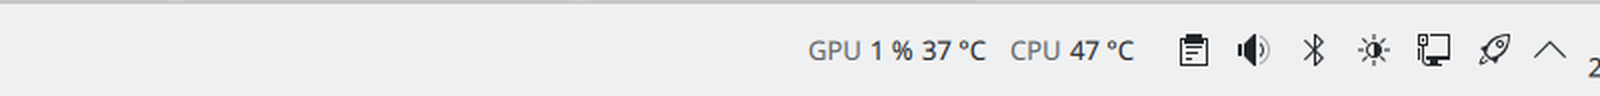
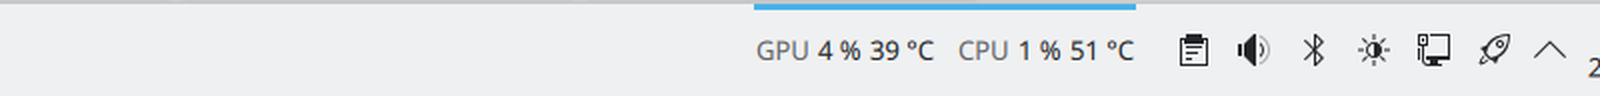
impl: show CPU utilisation next to its temperature

Changed region(s): [[0.4688, 0.4062, 0.6875, 0.6562], [0.4688, 0.0312, 0.7188, 0.125]]

diff --git a/package/contents/ui/main.qml b/package/contents/ui/main.qml
@@ -32,6 +32,7 @@ PlasmoidItem {
     readonly property real vramUsedValue: valueOf(vramUsedSensor)
     readonly property real vramTotalValue: valueOf(vramTotalSensor)
     readonly property real cpuTemperatureValue: valueOf(cpuTemperatureSensor)
+    readonly property real cpuUsageValue: valueOf(cpuUsageSensor)
 
     readonly property real vramUnit: 1024 * 1024 * 1024
 
@@ -68,6 +69,7 @@ PlasmoidItem {
     readonly property string cpuStateCue: cpuCritical ? "!!" : (cpuWarning ? "!" : "")
 
     readonly property string usageText: Math.round(usageValue) + " %"
+    readonly property string cpuUsageText: Math.round(cpuUsageValue) + " %"
     readonly property string temperatureText: hasData ? Math.round(junctionValue) + " °C" + gpuStateCue : "-- °C"
     readonly property string cpuTemperatureText: cpuHasData ? Math.round(cpuTemperatureValue) + " °C" + cpuStateCue : "-- °C"
 
@@ -88,7 +90,7 @@ PlasmoidItem {
             text = i18n("No GPU sensors found.");
         }
         if (showCpuTemperature) {
-            text += ", " + i18n("CPU") + ": " + cpuAccessibleValue
+            text += ", " + i18n("CPU") + ": " + cpuUsageText + ", " + cpuAccessibleValue
                   + (cpuStateText ? ", " + cpuStateText : "");
         }
         return text;
@@ -104,6 +106,7 @@ PlasmoidItem {
     Sensors.Sensor { id: vramUsedSensor; sensorId: "gpu/gpu0/usedVram"; updateRateLimit: 5000 }
     Sensors.Sensor { id: vramTotalSensor; sensorId: "gpu/gpu0/totalVram"; updateRateLimit: 5000 }
     Sensors.Sensor { id: cpuTemperatureSensor; sensorId: "cpu/all/maximumTemperature"; updateRateLimit: 2000 }
+    Sensors.Sensor { id: cpuUsageSensor; sensorId: "cpu/all/usage"; updateRateLimit: 2000 }
 
     toolTipMainText: root.showCpuTemperature ? i18n("GPU") + " / " + i18n("CPU") : i18n("GPU")
     toolTipSubText: hasData
@@ -114,7 +117,7 @@ PlasmoidItem {
                Math.round(memoryValue) + " °C",
                Math.round(powerValue) + " W")
           + (root.showCpuTemperature
-             ? "\n" + i18n("CPU") + ": " + root.cpuAccessibleValue
+             ? "\n" + i18n("CPU") + ": " + root.cpuUsageText + ", " + root.cpuAccessibleValue
                + (root.cpuStateText ? " (" + root.cpuStateText + ")" : "")
              : "")
         : i18n("No GPU sensors found.")
@@ -209,6 +212,14 @@ PlasmoidItem {
                 }
 
                 Text {
+                    text: root.cpuUsageText
+                    color: Kirigami.Theme.textColor
+                    font.family: Kirigami.Theme.defaultFont.family
+                    font.pointSize: Kirigami.Theme.defaultFont.pointSize
+                    font.features: ({ "tnum": 1 })
+                }
+
+                Text {
                     text: root.cpuTemperatureText
                     color: root.cpuTemperatureColor
                     font.family: Kirigami.Theme.defaultFont.family
@@ -289,6 +300,9 @@ PlasmoidItem {
             columnSpacing: Kirigami.Units.largeSpacing
             rowSpacing: Kirigami.Units.smallSpacing
             Layout.fillWidth: true
+
+            QQC.Label { text: i18n("Utilisation") }
+            QQC.Label { text: root.cpuUsageText; Layout.alignment: Qt.AlignRight }
 
             QQC.Label { text: i18n("Temperature") }
             QQC.Label { text: root.cpuTemperatureText; color: root.cpuTemperatureColor; Layout.alignment: Qt.AlignRight }

diff --git a/AGENTS.md b/AGENTS.md
@@ -80,7 +80,7 @@ There is no second copy to keep in sync.
 
 ## How it works
 
-`main.qml` creates ten `Sensors.Sensor` objects (module
+`main.qml` creates eleven `Sensors.Sensor` objects (module
 `org.kde.ksysguard.sensors`) and derives everything from them:
 
 | Sensor ID | Meaning | Rate |
@@ -92,6 +92,7 @@ There is no second copy to keep in sync.
 | `gpu/gpu0/power` | power draw in W | 5 s |
 | `gpu/gpu0/usedVram`, `totalVram` | VRAM in bytes | 5 s |
 | `cpu/all/maximumTemperature` | hottest CPU core in °C | 2 s |
+| `cpu/all/usage` | total CPU utilisation in % | 2 s |
 
 Representations:
 
@@ -101,7 +102,7 @@ Representations:
   An earlier version reserved the worst case ("100 % 100 °C !!"), which left
   almost half of the panel item empty — do not reintroduce that. Without the CPU
   value the item stays as compact as before; with it, both values get a muted
-  label (`GPU 12 % 64 °C  CPU 55 °C`) so they cannot be confused.
+  label (`GPU 12 % 64 °C  CPU 5 % 55 °C`) so they cannot be confused.
 - `fullRepresentation` – popup on click, showing every value; the CPU section is
   only visible when enabled.
 - `toolTipSubText` – the same values as a tooltip.
@@ -187,7 +188,7 @@ systemctl --user restart plasma-plasmashell.service
 
 Expected: one node with `role=button`, `name="GPU"` and a description such as
 `Utilisation: 4 %, Junction (Hotspot): 47 °C, Critical`. With the CPU enabled the
-name becomes `GPU / CPU` and the description gains `, CPU: 46 °C`.
+name becomes `GPU / CPU` and the description gains `, CPU: 5 %, 46 °C`.
 
 
 ## Localisation
@@ -241,7 +242,7 @@ Image.open('/tmp/panel.png').crop((1400, 1140, 1920, 1200)).save('/tmp/panel_cro
 ```
 
 The widget must show a value in the format `12 % 64 °C`, or
-`GPU 12 % 64 °C  CPU 55 °C` when the CPU temperature is enabled. If it shows
+`GPU 12 % 64 °C  CPU 5 % 55 °C` when the CPU values are enabled. If it shows
 `-- °C`, `ksystemstats` is not delivering values — check this first:
 
 ```bash
@@ -270,7 +271,7 @@ Plasma), and removing it again afterwards.
 ## Versioning
 
 - The version lives in `package/metadata.json` (`KPlugin.Version`, currently
-  `1.7`).
+  `1.8`).
 - Increase it for functional changes; the applet ID stays the same.
 - Commit convention: `impl:`, `docs:`, `fix:` plus a short imperative message.
 

diff --git a/README.md b/README.md
@@ -1,8 +1,8 @@
 # GPU Monitor – Plasma applet
 
 Shows **GPU utilisation and junction temperature** in the KDE panel — and warns
-you with colour before the graphics card gets too hot. The **CPU temperature**
-can be shown as well, with its own warning thresholds.
+you with colour before the graphics card gets too hot. **CPU utilisation and
+temperature** can be shown as well, with their own warning thresholds.
 
 ![Screenshot](docs/screenshot.png)
 
@@ -28,7 +28,8 @@ Both thresholds are configurable.
 ## Features
 
 - Utilisation in percent and junction temperature directly in the panel
-- Optional CPU temperature (hottest core) next to it, switched on in the settings
+- Optional CPU utilisation and temperature (hottest core) next to it, switched
+  on in the settings
 - Colour-coded temperature warnings for GPU and CPU that do **not** rely on
   colour alone: an exclamation mark (`!` warning, `!!` critical) accompanies the
   colour
@@ -73,7 +74,7 @@ Right-click the widget → **Configure GPU Monitor**
 - GPU warning threshold in °C (default 85)
 - GPU critical threshold in °C (default 100)
 - show or hide the utilisation figure in the panel
-- show or hide the CPU temperature in the panel (default off)
+- show or hide the CPU values (utilisation and temperature) in the panel (default off)
 - CPU warning and critical thresholds in °C (default 80 and 90)
 
 The GPU thresholds refer to the junction temperature. AMD specifies 110 °C as
@@ -115,7 +116,7 @@ only works for people who can see colour or use a mouse:
 - **Not colour-only.** Above the warning threshold the value gains `!`, above the
   critical threshold `!!`. Colour perception is not required to notice the state.
 - **Screen reader support.** The panel item exposes itself as a button named
-  "GPU" (or "GPU / CPU" when the CPU temperature is shown) with a description
+  "GPU" (or "GPU / CPU" when the CPU values are shown) with a description
   like "Utilisation: 12 %, Junction (Hotspot): 92 °C, Warning". The state word is
   included because colour and `!` are visual.
 - **Keyboard accessible.** The item is focusable with Tab and opens with Enter or
